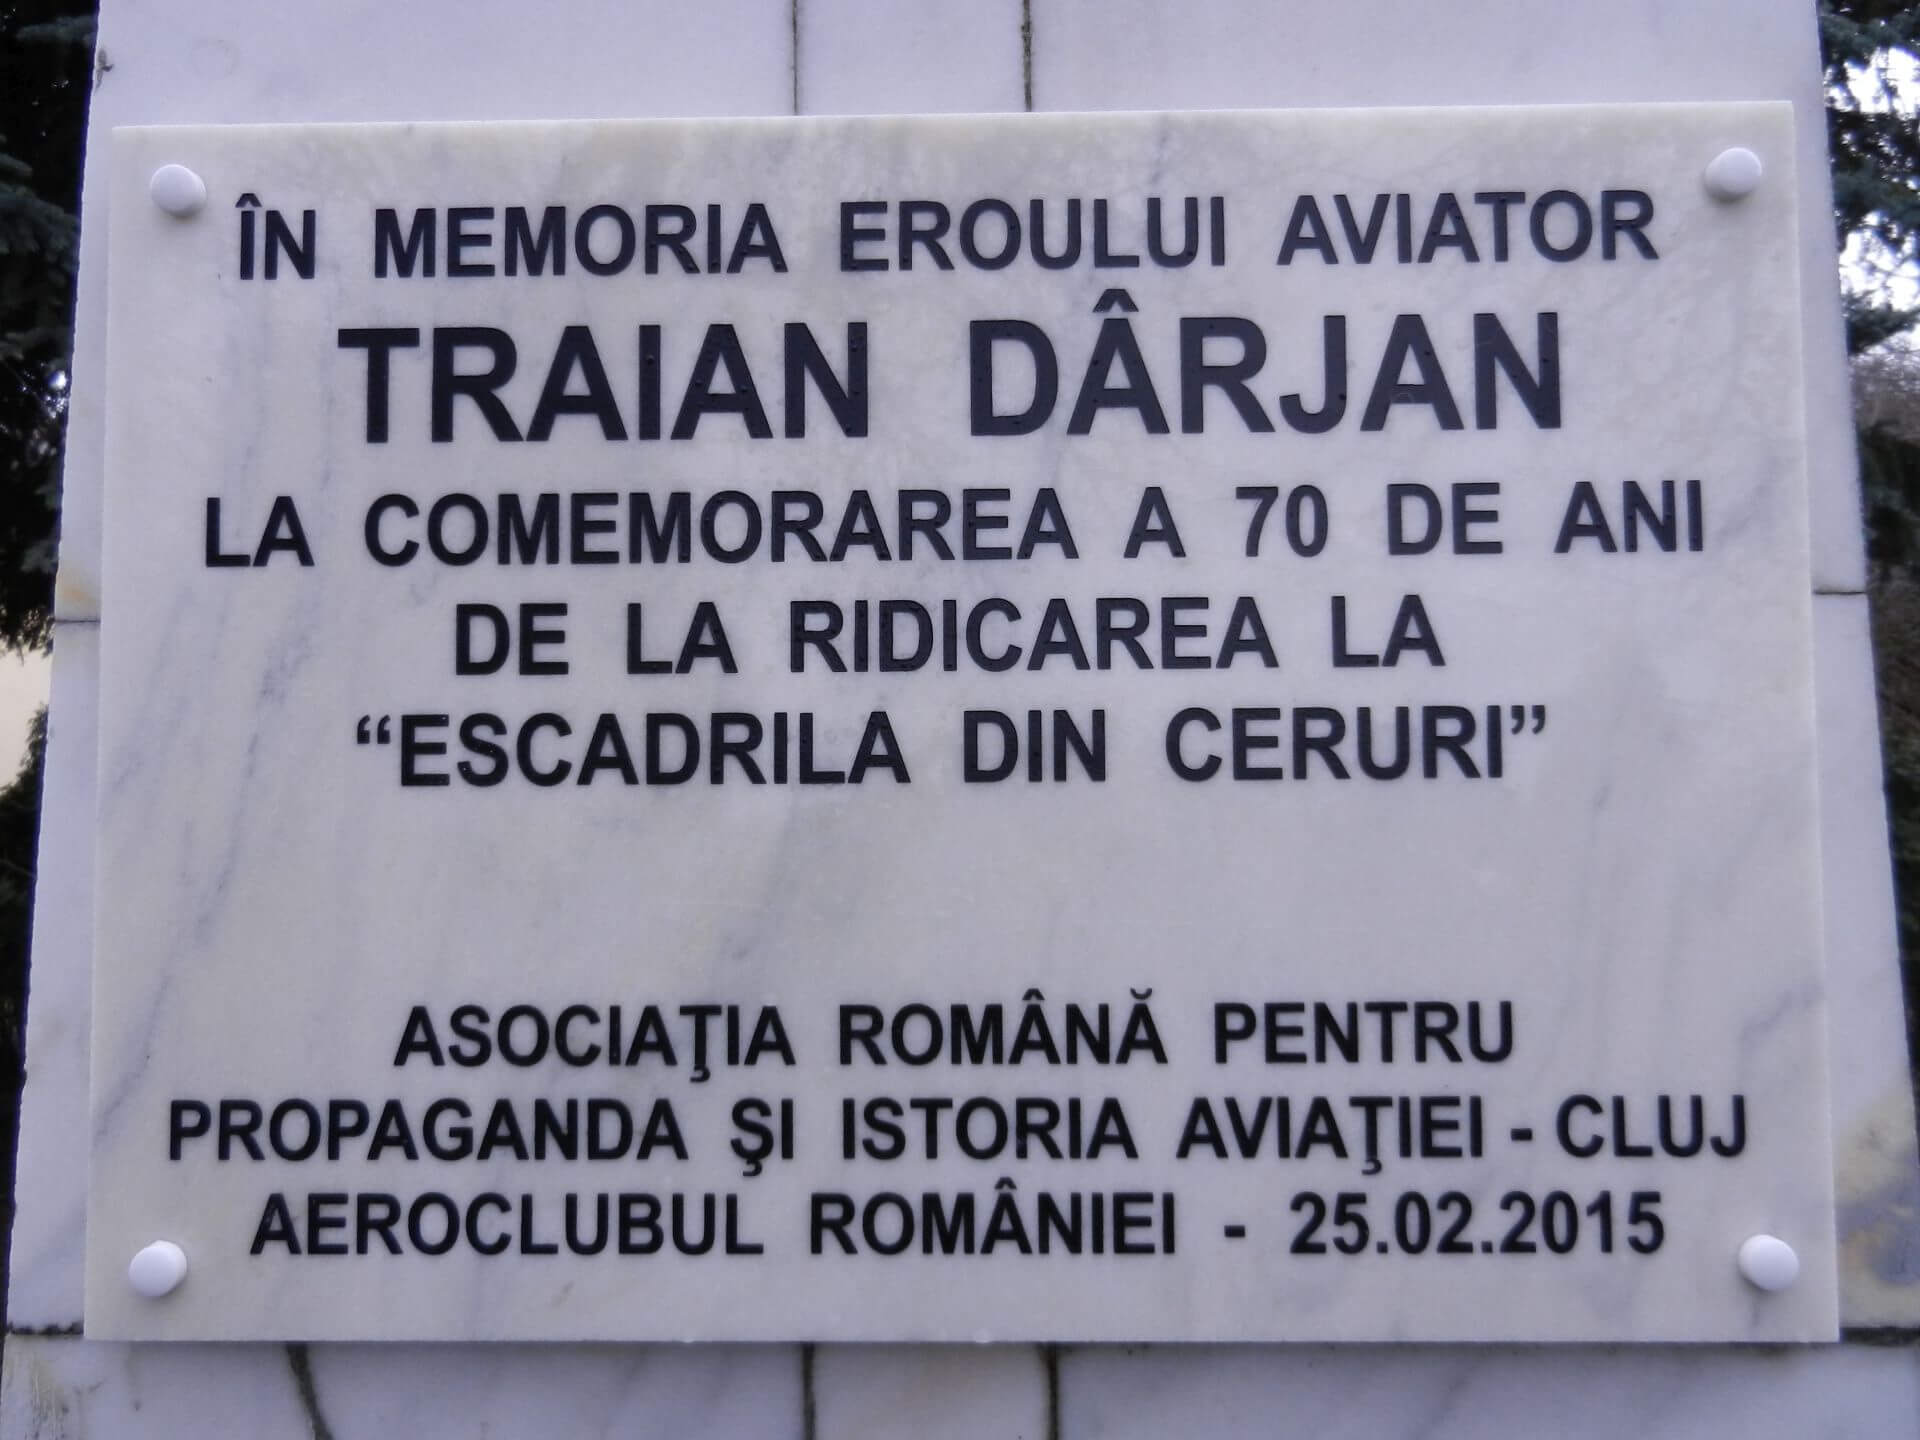
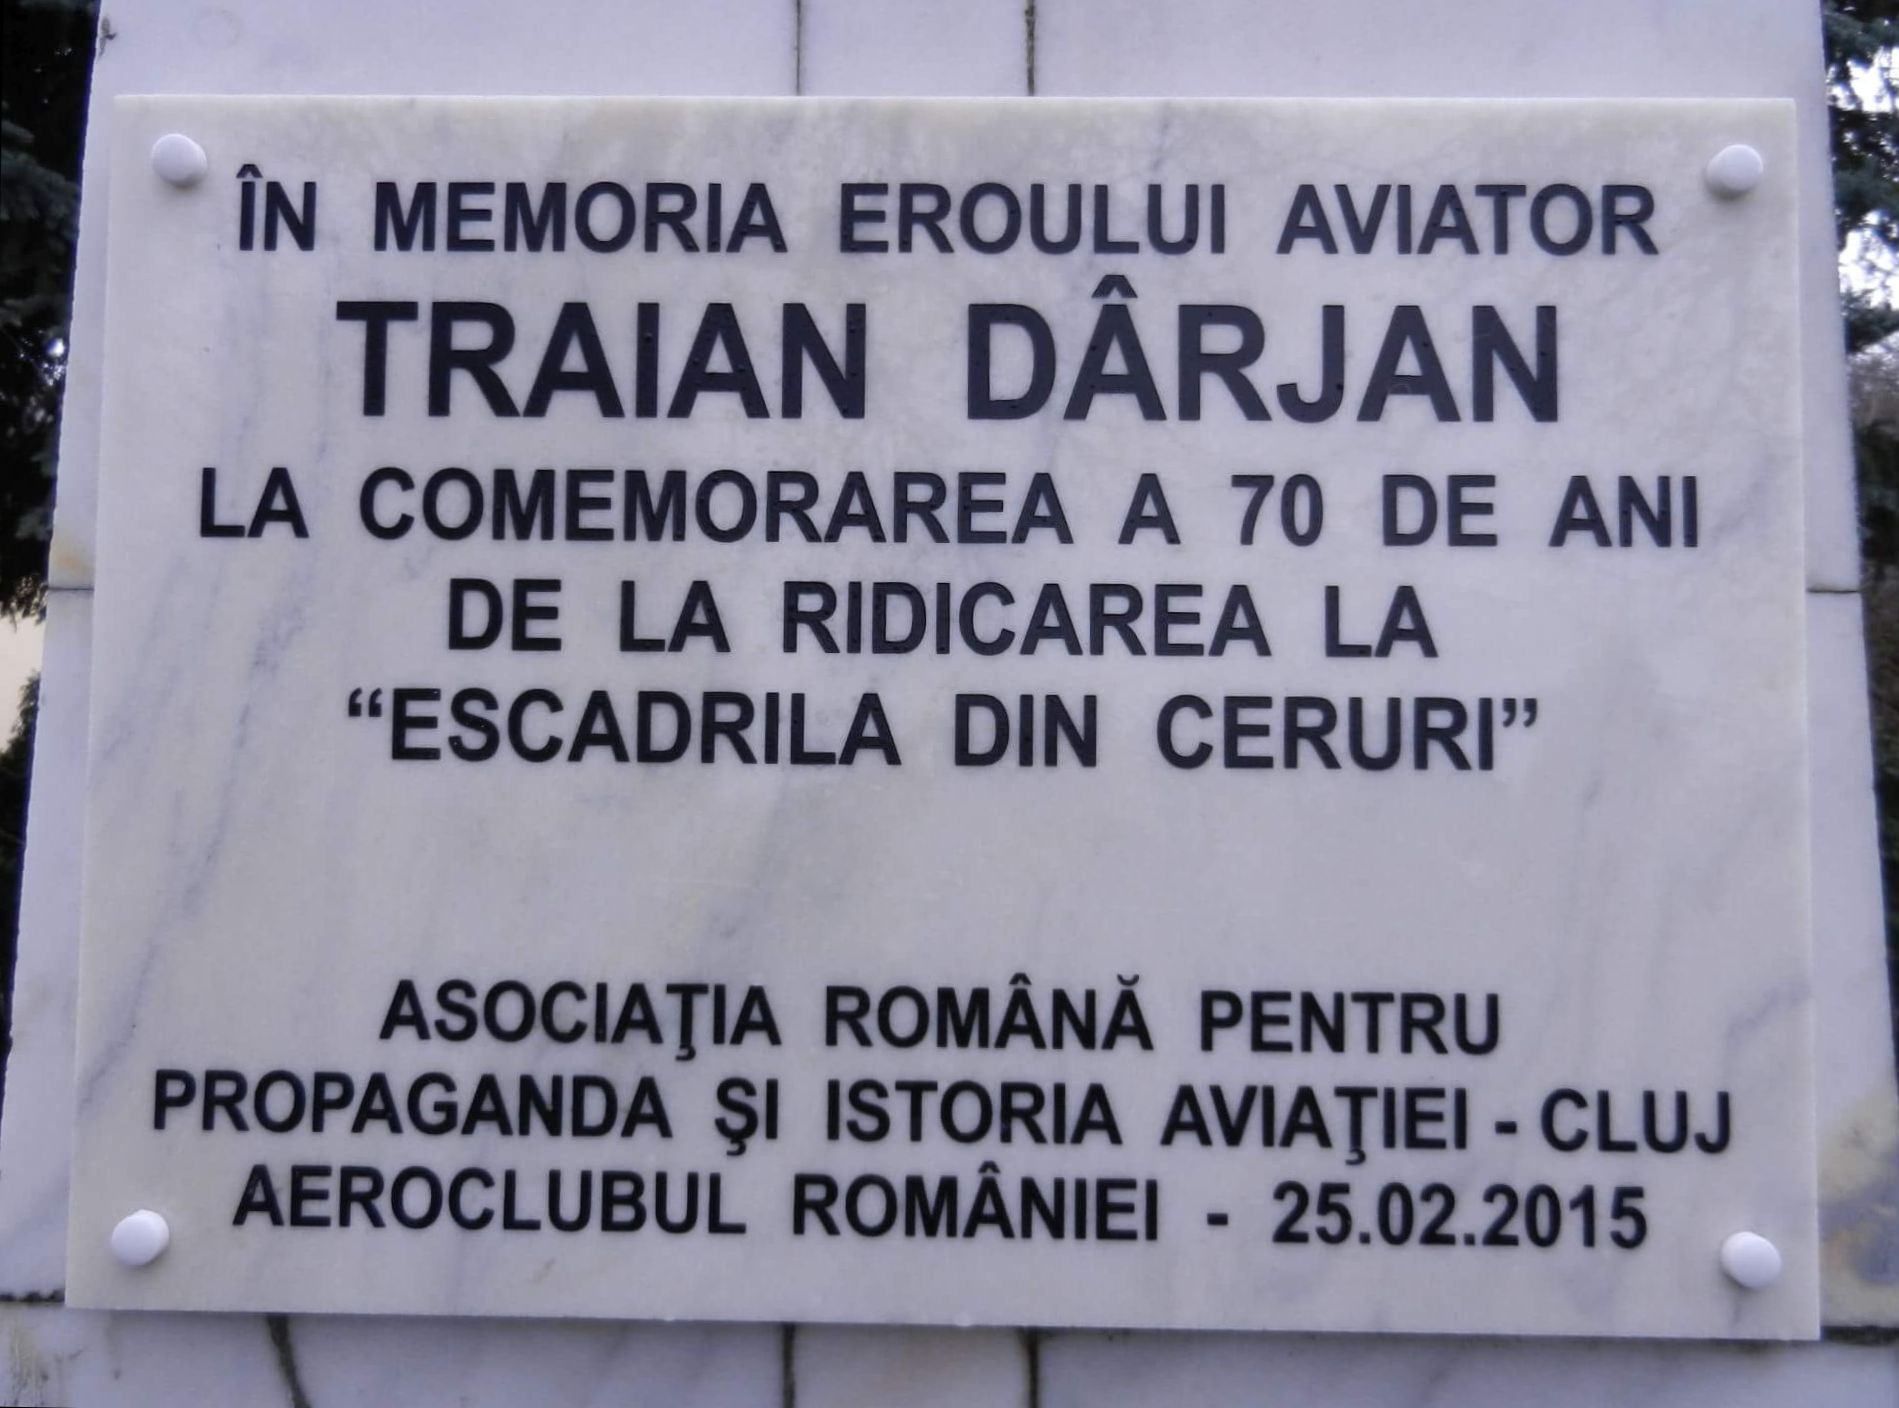
fine rotate last landing-page foto

diff --git a/CSS/style.css b/CSS/style.css
@@ -281,7 +281,6 @@ footer {
 .prev {
     left: 25px;
     transform: rotate(180deg);
-   
 }
 
 /* Background images */
@@ -302,7 +301,8 @@ footer {
     background-position-y:40%;
 }
 .slide:nth-child(5) {
-    background: url("../img/landing-page5.jpg") no-repeat center center/cover;
+    background: url("../img/landing-page5.jpg") no-repeat center center/contain;
+    background-color: #000000;
 }
 /* home section */
 .home-page-section {
